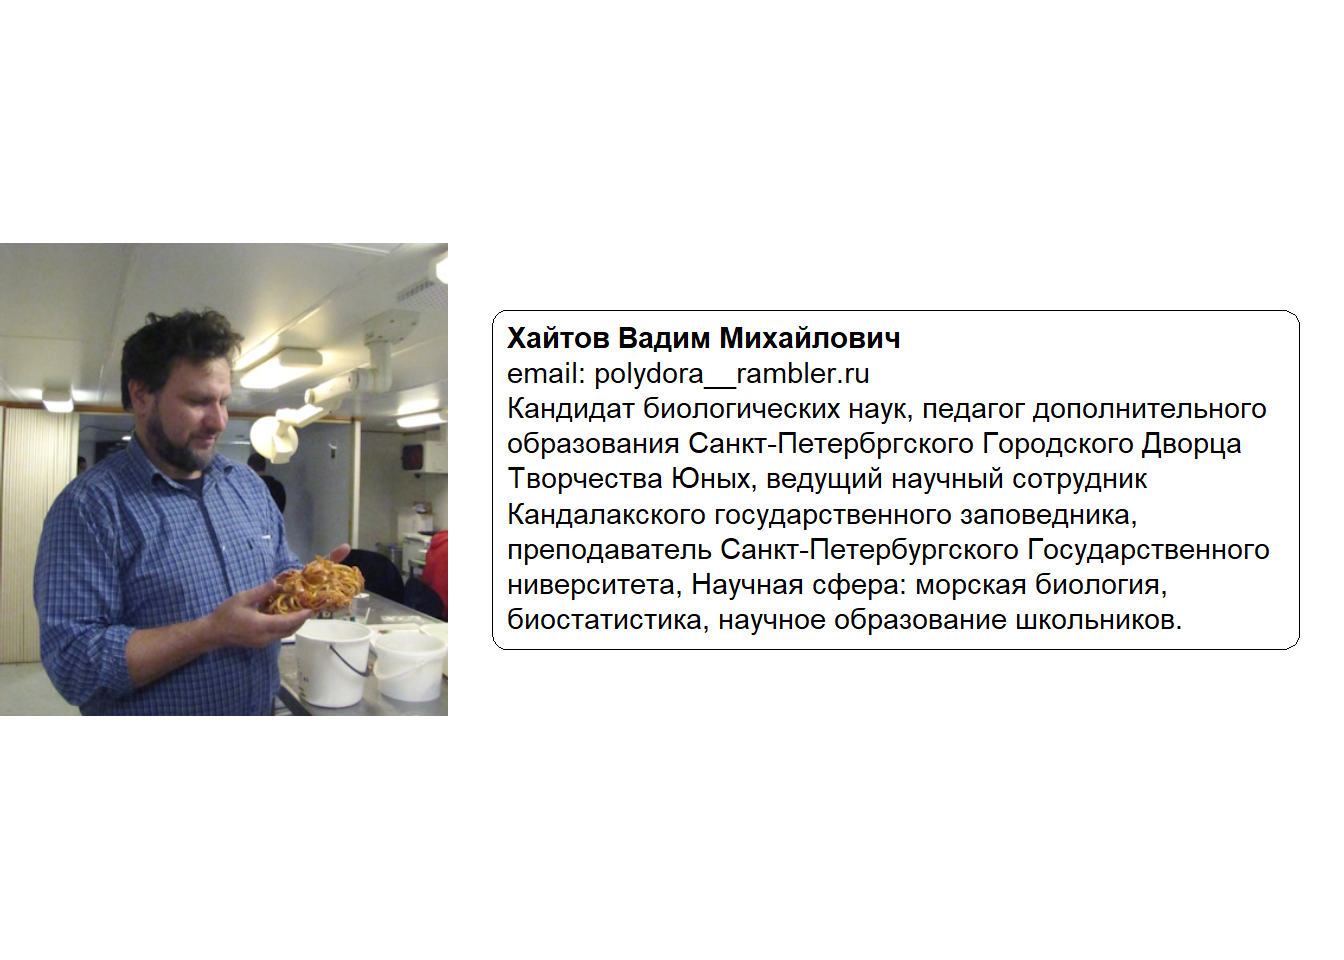
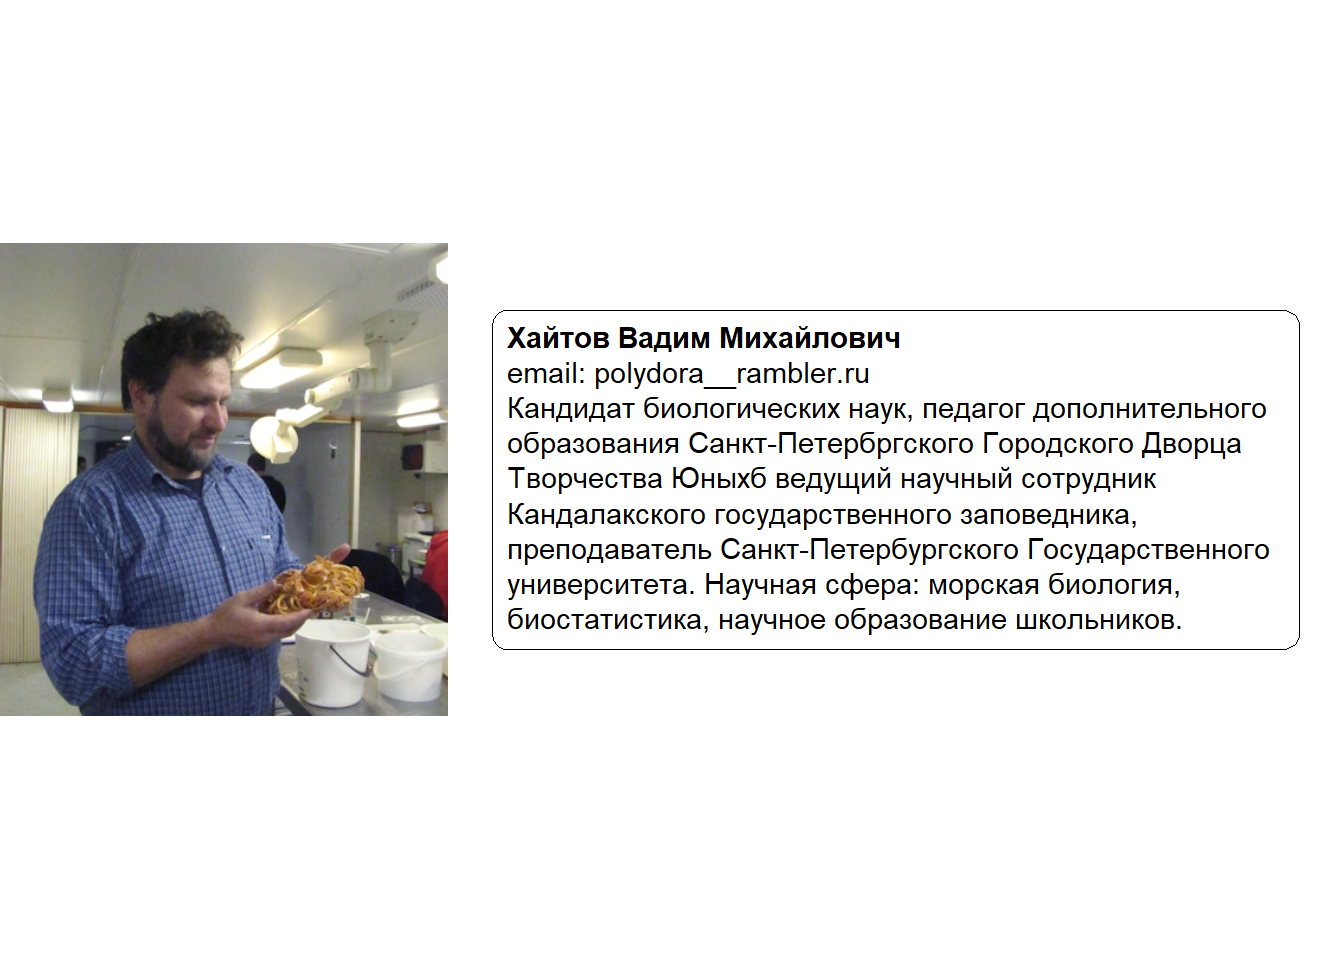
открыл новое

Changed region(s): [[0.5625, 0.4688, 0.875, 0.5312], [0.375, 0.5938, 0.875, 0.625]]

diff --git a/index.html b/index.html
@@ -313,7 +313,7 @@ div.tocify {
     </div>
     <div id="navbar" class="navbar-collapse collapse">
       <ul class="nav navbar-nav">
-        <li><a href="index.html">О семинаре</a></li>
+        <li><a href="index.html">О курсе</a></li>
         <li><a href="schedule.html">Расписание курса</a></li>
 	<li><a href="matherials.html">Материалы для занятий</a></li>
 	<li><a href="dashboard.html">Доска объявлений</a></li>
@@ -415,28 +415,10 @@ href="https://www.deepl.com/ru/translator">DeepL</a>.</li>
 прохождение вот <a href="https://stepik.org/course/129/promo#toc">этого
 бесплатного русскоязычного курса</a>.</p>
 <p><br> <br></p>
-<!-- # Контакты -->
-<!-- ```{r} -->
-<!-- library(cowplot) -->
-<!-- library(ggplot2) -->
-<!-- library(ggtext) -->
-<!-- photo_2 <- ggdraw() + draw_image("Figures/Vadim.jpg") -->
-<!-- df <- data.frame( -->
-<!--   label = "**Хайтов Вадим Михайлович**  <br> email: polydora@rambler.ru <br> Кандидат биологических наук, педагог дополнительного образования Санкт-Петербргского Городского Дворца Творчества Юных, ведущий научный сотрудник Кандалакского государственного заповедника, преподаватель Санкт-Петербургского Государственного ниверситета,  Научная сфера: морская биология, биостатистика, научное образование школьников." , -->
-<!--   x = c(0), -->
-<!--   y = c(1), -->
-<!--   hjust = c(0), -->
-<!--   vjust = c(1), -->
-<!--   orientation = c("upright"), -->
-<!--   color = c("black"), -->
-<!--   fill = c("cornsilk") -->
-<!-- ) -->
-<!-- gg_text_2 <- -->
-<!--   ggplot() + -->
-<!--   geom_textbox(data = df, aes(x, y, label = label,  orientation = orientation), width = unit(0.9, "npc"), color = "black", fill = "white", hjust = 0.5, vjust = 0.5) + -->
-<!--   theme_nothing() -->
-<!-- plot_grid(photo_2, gg_text_2, ncol = 2, rel_widths = c(1, 1)) -->
-<!-- ``` -->
+</div>
+<div id="контакты" class="section level1">
+<h1>Контакты</h1>
+<p><img src="index_files/figure-html/unnamed-chunk-3-1.png" width="672" /></p>
 </div>
 
 
